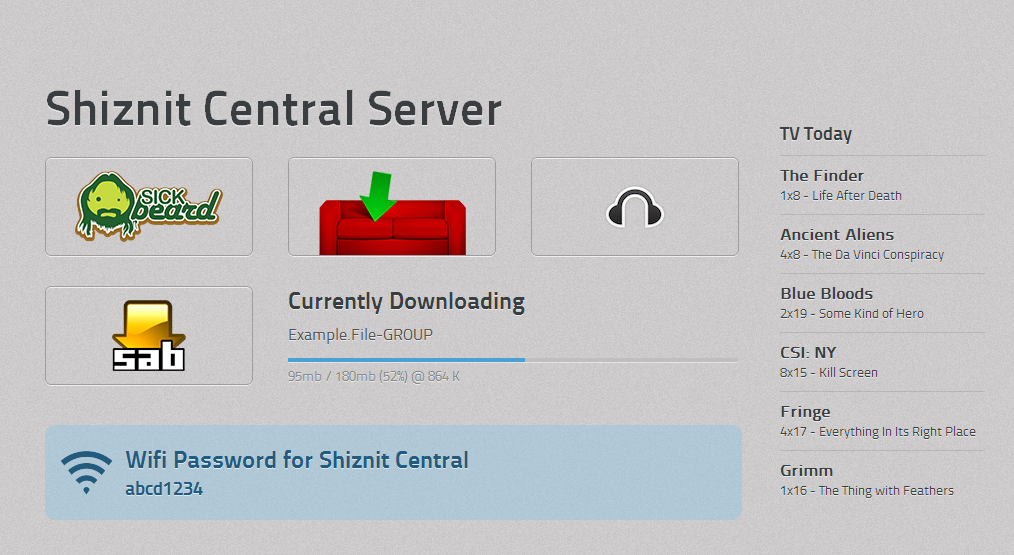
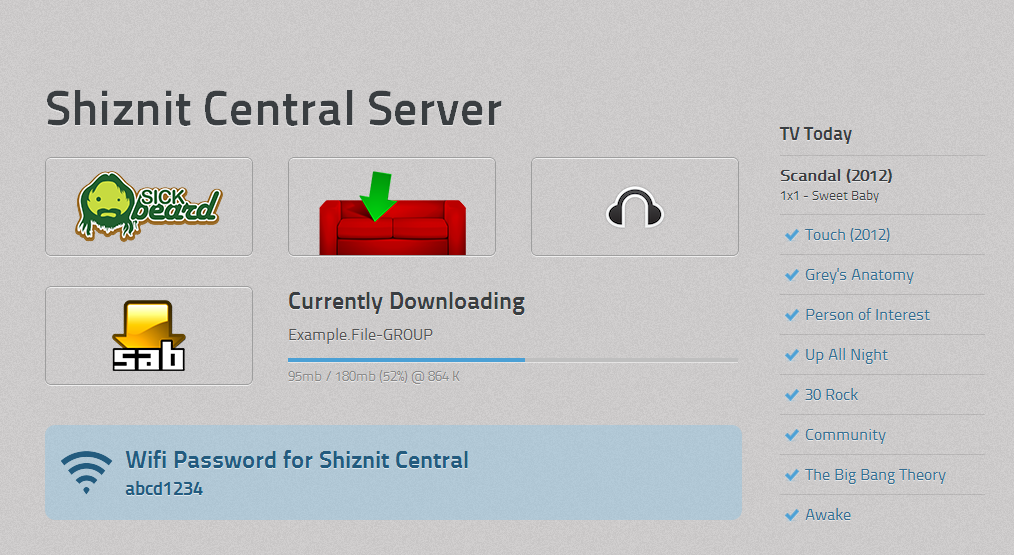
* Moved config in to alternate file to make updating easier * Created config as an example file * Updated readme & screenshot * Added trailers button * Added "snatched shows" to TV Today

diff --git a/intranet/style.css b/intranet/style.css
@@ -13,7 +13,7 @@ h2 {padding-bottom: 10px;}
 .clearLeft {clear: left;}
 
 /* Butons */
-.actionButton {display: block; float: left; border: 1px solid #9e9e9e; background: transparent; margin-right: 35px; text-indent: -999px; outline: none; border-radius: 6px; box-shadow: 0 1px 0 rgba(255,255,255,.7), inset 0 1px rgba(255,255,255,.7); 
+.actionButton {display: block; float: left; border: 1px solid #9e9e9e; border-color: rgba(0,0,0,0.15); background: transparent; margin-right: 35px; outline: none; border-radius: 6px; box-shadow: 0 1px 0 rgba(255,255,255,.7), inset 0 1px rgba(255,255,255,.7); 
 		background-image: -webkit-linear-gradient(top, rgba(0,0,0,0) 0%,rgba(0,0,0,0) 100%);
 		background-image: -moz-linear-gradient(top, rgba(0,0,0,0) 0%,rgba(0,0,0,0) 100%);
 		background-image: -o-linear-gradient(top, rgba(0,0,0,0) 0%,rgba(0,0,0,0) 100%);
@@ -23,7 +23,7 @@ h2 {padding-bottom: 10px;}
 		-o-transition: all .2s ease-in-out;
 		transition: all .2s ease-in-out;
 	}
-	.actionButton:hover {
+	.actionButton:hover {border-color: rgba(0,0,0,0.3);
 		background-image: -webkit-linear-gradient(top, rgba(0,0,0,0) 0%,rgba(0,0,0,0.1) 100%);
 		background-image: -moz-linear-gradient(top, rgba(0,0,0,0) 0%,rgba(0,0,0,0.1) 100%);
 		background-image: linear-gradient(top, rgba(0,0,0,0) 0%,rgba(0,0,0,0.1) 100%);
@@ -35,11 +35,17 @@ h2 {padding-bottom: 10px;}
 		             0 0 15px rgba(138,197,233,1);
 	}
 
+	.actionButton.big {text-indent: -999px;}
+	.actionButton.small {padding: 15px; text-decoration: none; color: #222;}
 	.actionButton.big span {width: 206px; height: 97px; display: block; background-position: center; background-repeat: no-repeat;}
 	.actionButton.sickbeard span {background-image: url("images/sickbeard.png");}
 	.actionButton.couchpotato span {background-image: url("images/couch.png"); background-position: center bottom;}
 	.actionButton.headphones span {background-image: url("images/headphones.png");}
 	.actionButton.sabnzb span {background-image: url("images/sab.png");}
+
+	.secondaryButtons {padding-top: 30px;}
+	.actionButton.icon span {background-position: 0 50%; background-repeat: no-repeat; padding-left: 25px;}
+	.actionButton.iconTrailer span {background-image: url("images/trailers.png");}
 
 
 /* =========================================================
@@ -59,6 +65,10 @@ h2 {padding-bottom: 10px;}
 		.showPopupBlurb {color: #fff; text-shadow: none; font-size: 85%; padding: 10px; display: block;}
 	.sickbeardShows li:hover .showPopup {display: block;}
 	.showposter {width: 120px; float: left; margin-right: 10px;}
+
+	.snatchedShows li {background: url("images/tick.png") left no-repeat; padding-left: 25px;}
+		.snatchedShows strong {color: #346d90; font-weight: normal;}
+		.snatchedShows .showPopup {top: -200%;}
 
 /* =========================================================
 

diff --git a/index.php b/index.php
@@ -1,63 +1,4 @@
-<?php 
-
-	/* =======================================================
-
-	INITIAL SET UP
-
-	======================================================= */
-
-	$config = array(
-
-		# Services
-		# Set these to false to disable them
-		"sickbeard" => true,
-		"couchpotato" => true,
-		"headphones" => true,
-		"sabnzbd" => true,
-
-		# URLs and Ports
-		"sickbeardURL" => "http://192.168.1.1",
-		"sickbeardPort" => "8081",
-		"sickbeardAPI" => "",
-		"sabnzbdURL" => "http://192.168.1.1",
-		"sabnzbdPort" => "8080",
-		"sabnzbdAPI" => "",
-		"couchpotatoURL" => "http://192.168.1.1",
-		"couchpotatoPort" => "5000",
-		"headphonesURL" => "http://192.168.1.1",
-		"headphonesPort" => "8181",
-
-		# Show currently downloading?
-		"currentlyDownloading" => true,
-
-		#Show TV Today?
-		"todaysShows" => true,
-
-		# Sickbeard - Missed or Coming?
-		# Australia, for example, is almost an entire day ahead of America and so American TV shows 
-		# air the day after they say they're going to air, so instead of "coming shows", we use "missed shows"
-		# to indicate what's coming out today. 
-		# Set to true for "missed" (Oz), false for "coming" (US)
-		"sickMissed" => false,
-
-		# Show popups when hovering over coming shows?
-		"sickPopups" => true,
-
-		# Wifi
-		# WifiName is also used for page title
-		"showWifi" => true,
-		"wifiName" => "Home Network",
-		"wifiPassword" => "abcd1234"
-
-	);
-
-	/* =======================================================
-
-	END SET UP
-
-	======================================================= */
-
-?>
+<?php include('intranet/serverconfig.php'); ?>
 <!doctype html>
 <html>
 	<head>
@@ -68,7 +9,7 @@
 		<h1><?= $config['wifiName']; ?> Server</h1>
 
 		<?php ## Check if everything is disabled
-			if (!$config['sickbeard'] && !$config['couchpotato'] && !$config['headphones'] && !$config['sabnzbd'] && !$config['showWifi']) :
+			if (!$config['sickbeard'] && !$config['couchpotato'] && !$config['headphones'] && !$config['sabnzbd'] && !$config['showWifi'] && !$config['showTrailers']) :
 
 				echo "<img src='intranet/images/mymanjackie.png' />";
 
@@ -76,7 +17,6 @@
 		?>
 		
 		<?php if( $config['sickbeard'] ) : 
-			  if( $config['todaysShows'] ) : 
 			  if ( $config['sickMissed'] ) : $sbType = "missed"; else: $sbType = "today"; endif;
 		?>
 		<div class="sickbeardShows">
@@ -85,7 +25,7 @@
 				$sbJSON = file_get_contents($config['sickbeardURL'].":".$config['sickbeardPort']."/api/".$config['sickbeardAPI']."/?cmd=future&sort=date&type=".$sbType);
 				$sbShows = json_decode($sbJSON);
 
-				echo "<ul>";
+				echo "<ul class='comingShows'>";
 
 				# List shows
 				if(empty($sbShows)){
@@ -110,9 +50,38 @@
 					} 
 				}
 				echo "</ul>";
+
+				$sbJSONdone = file_get_contents($config['sickbeardURL'].":".$config['sickbeardPort']."/api/".$config['sickbeardAPI']."/?cmd=history&limit=15");
+				$sbShowsdone = json_decode($sbJSONdone);
+				$todaysDate = date('Y-m-d');
+
+				echo "<ul class='snatchedShows'>";
+
+				# List shows
+				# Run through each show
+				foreach($sbShowsdone->{'data'} as $episode) {
+
+					if (substr($episode->date,0,10) == $todaysDate) :
+
+					echo "<li>";
+
+					# Sickbeard Popups
+					if($config ['sickPopups']) :
+					echo "<span class='showPopup'>";
+					echo "<img src='".$config['sickbeardURL'].":".$config['sickbeardPort']."/showPoster/?show=".$episode->{'tvdbid'}."&which=poster' class='showposter' />";
+					echo "</span>";
+					endif;
+
+					# Show name and number
+					echo "<strong class='showname'>".$episode->{'show_name'}." <small>".$episode->{'season'}."x".$episode->{'episode'}."</small></strong>";
+					echo "</li>";
+					endif;
+				} 
+				echo "</ul>";
+
 			?>
 		</div>
-		<?php endif; endif; ?>
+		<?php endif; ?>
 
 		<?php ## Action Buttons ?>
 		<?php if( $config['sickbeard'] ) : ?>
@@ -129,37 +98,36 @@
 		<?php if( $config['sabnzbd'] ) : ?>
 		<a href="<?= $config['sabnzbdURL']; ?>:<?= $config['sabnzbdPort']; ?>" title="SABnzbd" class="actionButton big sabnzb"><span>SABnzbd</span></a>
 
-			<?php if( $config['currentlyDownloading'] ) : ?>
-			<div class="sabDownload">
-				<h2>Currently Downloading</h2>
-				<?php
+		<div class="sabDownload">
+			<h2>Currently Downloading</h2>
+			<?php
 
-					$data = simplexml_load_file($config['sabnzbdURL'].":".$config['sabnzbdPort']."/sabnzbd/api?mode=qstatus&output=xml&apikey=".$config['sabnzbdAPI']);
-					$filename = $data->jobs[0]->job->filename;
-					$mbFull = $data->jobs[0]->job->mb;
-					$mbLeft = $data->jobs[0]->job->mbleft;
-					$mbDone = $mbFull - $mbLeft;
+				$data = simplexml_load_file($config['sabnzbdURL'].":".$config['sabnzbdPort']."/sabnzbd/api?mode=qstatus&output=xml&apikey=".$config['sabnzbdAPI']);
+				$filename = $data->jobs[0]->job->filename;
+				$mbFull = $data->jobs[0]->job->mb;
+				$mbLeft = $data->jobs[0]->job->mbleft;
+				$mbDone = $mbFull - $mbLeft;
 
-					if($filename) {
+				if($filename) {
 
-						$mbFullNoRound = explode(".",$mbFull);
-						$mbPercent = $mbDone / $mbFullNoRound[0] * 100;
-						$mbPercentPretty = explode(".",$mbPercent);
+					$mbFullNoRound = explode(".",$mbFull);
+					$mbPercent = $mbDone / $mbFullNoRound[0] * 100;
+					$mbPercentPretty = explode(".",$mbPercent);
 
-						echo "<span class='currentdl'>".$filename."</span>";
-						echo "<progress value='".$mbDone."' max='".$mbFull."'></progress>";
-						echo "<span class='stats'>".$mbDone."mb / ".$mbFullNoRound[0]."mb (".$mbPercentPretty[0]."%) @ ". $data->speed ."</span>";
+					echo "<span class='currentdl'>";
+					if ($data->paused == "True") {echo "PAUSED: ";}
+					echo $filename."</span>";
+					echo "<progress value='".$mbDone."' max='".$mbFull."'></progress>";
+					echo "<span class='stats'>".$mbDone."mb / ".$mbFullNoRound[0]."mb (".$mbPercentPretty[0]."%) @ ". $data->speed ."</span>";
 
-					} else {
-						
-						echo "<em class='currentdl'>No current downloads</em>";
+				} else {
+					
+					echo "<em class='currentdl'>No current downloads</em>";
 
-					}
-				?>
+				}
+			?>
 
-			</div>
-			<?php endif; ?>
-
+		</div>
 		<?php endif; ?>
 		<div class="clearLeft"></div>
 
@@ -171,8 +139,15 @@
 			</div>
 		<?php endif; ?>
 
+		<?php if( $config['showTrailers'] ) : ?>
+		<div class="clearLeft secondaryButtons">
+			<a href="http://www.hd-trailers.net/" target="_blank" class="actionButton small icon iconTrailer"><span>Online Trailer Downloads</span></a>
+		</div>
+		<?php endif; ?>
+
 		<?php ## Ending check for all-disabled ?>
 		<?php endif; ?>
+
 
 	</body>
 </html>

diff --git a/intranet/serverconfig-example.php b/intranet/serverconfig-example.php
@@ -1,0 +1,43 @@
+<?php 
+	$config = array(
+
+		# Services
+		# Set these to false to disable them
+		"sickbeard" => true,
+		"couchpotato" => true,
+		"headphones" => true,
+		"sabnzbd" => true,
+
+		# URLs and Ports
+		"sickbeardURL" => "http://192.168.1.1",
+		"sickbeardPort" => "8081",
+		"sickbeardAPI" => "",
+		"sabnzbdURL" => "http://192.168.1.1",
+		"sabnzbdPort" => "8080",
+		"sabnzbdAPI" => "",
+		"couchpotatoURL" => "http://192.168.1.1",
+		"couchpotatoPort" => "5000",
+		"headphonesURL" => "http://192.168.1.1",
+		"headphonesPort" => "8181",
+
+		# Sickbeard - Missed or Coming?
+		# Australia, for example, is almost an entire day ahead of America and so American TV shows 
+		# air the day after they say they're going to air, so instead of "coming shows", we use "missed shows"
+		# to indicate what's coming out today. 
+		# Set to true for "missed", false for "coming"
+		"sickMissed" => true,
+
+		# Show popups when hovering over coming shows?
+		"sickPopups" => true,
+
+		# Show trailers button
+		"showTrailers" => true,
+
+		# Wifi
+		# WifiName is also used for page title
+		"showWifi" => true,
+		"wifiName" => "Home Network",
+		"wifiPassword" => "abcd1234"
+
+	);
+?>

diff --git a/README.md b/README.md
@@ -19,8 +19,5 @@ A simple little one-page Intranet homepage I created for my home server with the
 
 Ideally this would go on the root of your web server, which is why the intranet resources are in a folder named intranet. The resources are all relative so you can move it in to a subfolder if you like.
 
-All the set up variables are at the top of the php file. 
-At the very top of the configuration is switches to turn on or off each service. Set them to false to turn them off, set them to true to turn them on. 
-Underneath those switches are the URLs and Ports that you will need to configure before anything will work.
-
-If you are wanting to show current downloads and TV Today, please ensure you have set the API keys for SABnzbd and SickBeard in the configuration section at the top of the php file.
+To configure the page you will need to open the intranet folder and rename serverconfig-example.php to serverconfig.php
+Open the config file and make the appropriate changes to the IPs, Ports and API Keys.
